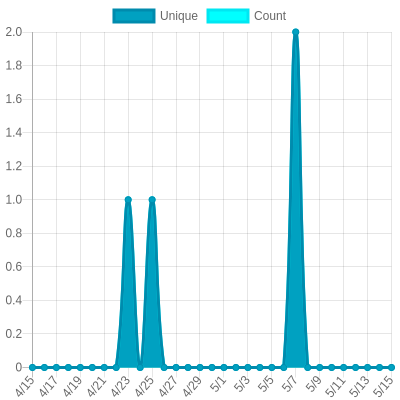
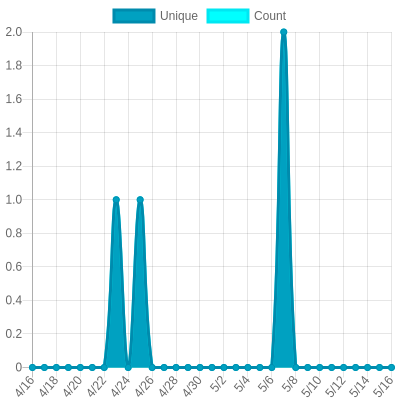
Update views

diff --git a/README.md b/README.md
@@ -181,6 +181,22 @@ The project created and maintained by [gayanvoice](https://github.com/gayanvoice
 	</tr>
 	<tr>
 		<td>
+			<a href="https://github.com/jaydu1/my-viewes-counter/tree/master/readme/908646100/week.md">
+				PII
+			</a>
+		</td>
+		<td>
+			2026/5/14 1:04 AM UTC
+		</td>
+		<td>
+			47
+		</td>
+		<td>
+			<img alt="Response time graph" src="https://github.com/jaydu1/my-viewes-counter/raw/master/graph/908646100/small/week.png" height="20"> 62
+		</td>
+	</tr>
+	<tr>
+		<td>
 			<a href="https://github.com/jaydu1/my-viewes-counter/tree/master/readme/1120442200/week.md">
 				FDFI
 			</a>
@@ -213,7 +229,7 @@ The project created and maintained by [gayanvoice](https://github.com/gayanvoice
 	</tr>
 </table>
 
-<small><i>Last updated on 2026/5/16 1:00 AM UTC</i></small>
+<small><i>Last updated on 2026/5/16 6:59 AM UTC</i></small>
 
 ## ✂Copy and 📋 Paste
 ### Total Views Badge

diff --git a/readme/908646100/month.md b/readme/908646100/month.md
@@ -21,6 +21,17 @@
 	</tr>
 	<tr>
 		<td>
+			<code>2026/5/16</code>
+		</td>
+		<td>
+			<code>0</code>
+		</td>
+		<td>
+			<code>0</code>
+		</td>
+	</tr>
+	<tr>
+		<td>
 			<code>2026/5/15</code>
 		</td>
 		<td>
@@ -349,21 +360,10 @@
 			<code>0</code>
 		</td>
 	</tr>
-	<tr>
-		<td>
-			<code>2026/4/15</code>
-		</td>
-		<td>
-			<code>0</code>
-		</td>
-		<td>
-			<code>0</code>
-		</td>
-	</tr>
 </table>
 
 </details>
-<small><i>Last updated on 2026/5/15 6:44 PM UTC</i></small>
+<small><i>Last updated on 2026/5/16 6:58 AM UTC</i></small>
 
 ## ✂Copy and 📋 Paste
 ### SVG Badge

diff --git a/readme/908646100/week.md b/readme/908646100/week.md
@@ -21,6 +21,17 @@
 	</tr>
 	<tr>
 		<td>
+			<code>2026/5/16</code>
+		</td>
+		<td>
+			<code>0</code>
+		</td>
+		<td>
+			<code>0</code>
+		</td>
+	</tr>
+	<tr>
+		<td>
 			<code>2026/5/15</code>
 		</td>
 		<td>
@@ -96,21 +107,10 @@
 			<code>0</code>
 		</td>
 	</tr>
-	<tr>
-		<td>
-			<code>2026/5/8</code>
-		</td>
-		<td>
-			<code>0</code>
-		</td>
-		<td>
-			<code>0</code>
-		</td>
-	</tr>
 </table>
 
 </details>
-<small><i>Last updated on 2026/5/15 6:44 PM UTC</i></small>
+<small><i>Last updated on 2026/5/16 6:58 AM UTC</i></small>
 
 ## ✂Copy and 📋 Paste
 ### SVG Badge

diff --git a/readme/1120442200/month.md b/readme/1120442200/month.md
@@ -363,7 +363,7 @@
 </table>
 
 </details>
-<small><i>Last updated on 2026/5/16 12:59 AM UTC</i></small>
+<small><i>Last updated on 2026/5/16 6:58 AM UTC</i></small>
 
 ## ✂Copy and 📋 Paste
 ### SVG Badge

diff --git a/readme/1120442200/week.md b/readme/1120442200/week.md
@@ -110,7 +110,7 @@
 </table>
 
 </details>
-<small><i>Last updated on 2026/5/16 12:59 AM UTC</i></small>
+<small><i>Last updated on 2026/5/16 6:58 AM UTC</i></small>
 
 ## ✂Copy and 📋 Paste
 ### SVG Badge

diff --git a/readme/1120442200/year.md b/readme/1120442200/year.md
@@ -165,7 +165,7 @@
 </table>
 
 </details>
-<small><i>Last updated on 2026/5/16 12:59 AM UTC</i></small>
+<small><i>Last updated on 2026/5/16 6:58 AM UTC</i></small>
 
 ## ✂Copy and 📋 Paste
 ### SVG Badge

diff --git a/readme/183219516/month.md b/readme/183219516/month.md
@@ -363,7 +363,7 @@
 </table>
 
 </details>
-<small><i>Last updated on 2026/5/16 12:57 AM UTC</i></small>
+<small><i>Last updated on 2026/5/16 6:56 AM UTC</i></small>
 
 ## ✂Copy and 📋 Paste
 ### SVG Badge

diff --git a/readme/183219516/week.md b/readme/183219516/week.md
@@ -110,7 +110,7 @@
 </table>
 
 </details>
-<small><i>Last updated on 2026/5/16 12:57 AM UTC</i></small>
+<small><i>Last updated on 2026/5/16 6:56 AM UTC</i></small>
 
 ## ✂Copy and 📋 Paste
 ### SVG Badge

diff --git a/readme/183219516/year.md b/readme/183219516/year.md
@@ -165,7 +165,7 @@
 </table>
 
 </details>
-<small><i>Last updated on 2026/5/16 12:57 AM UTC</i></small>
+<small><i>Last updated on 2026/5/16 6:56 AM UTC</i></small>
 
 ## ✂Copy and 📋 Paste
 ### SVG Badge

diff --git a/readme/183444594/month.md b/readme/183444594/month.md
@@ -363,7 +363,7 @@
 </table>
 
 </details>
-<small><i>Last updated on 2026/5/16 12:58 AM UTC</i></small>
+<small><i>Last updated on 2026/5/16 6:57 AM UTC</i></small>
 
 ## ✂Copy and 📋 Paste
 ### SVG Badge

diff --git a/readme/183444594/week.md b/readme/183444594/week.md
@@ -110,7 +110,7 @@
 </table>
 
 </details>
-<small><i>Last updated on 2026/5/16 12:58 AM UTC</i></small>
+<small><i>Last updated on 2026/5/16 6:57 AM UTC</i></small>
 
 ## ✂Copy and 📋 Paste
 ### SVG Badge

diff --git a/readme/183444594/year.md b/readme/183444594/year.md
@@ -165,7 +165,7 @@
 </table>
 
 </details>
-<small><i>Last updated on 2026/5/16 12:58 AM UTC</i></small>
+<small><i>Last updated on 2026/5/16 6:57 AM UTC</i></small>
 
 ## ✂Copy and 📋 Paste
 ### SVG Badge
